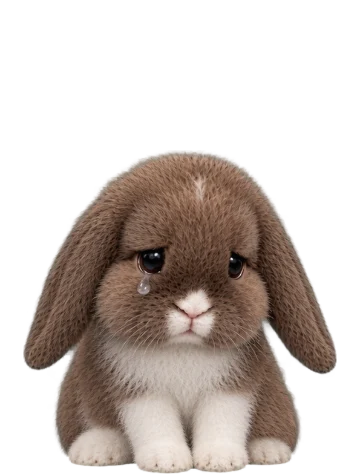
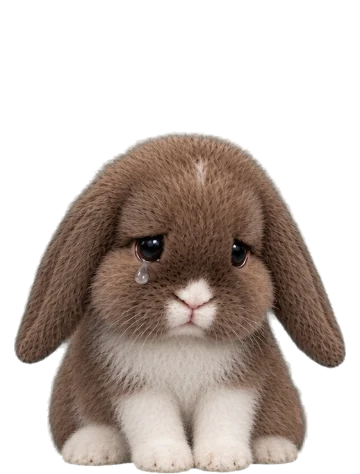
Hint Bunny: full matching pose set (12 poses, new idle), bored then asleep when left alone

Changed region(s): [[0.0306, 0.2658, 0.9778, 1.0], [0.4889, 0.8861, 0.6111, 1.0], [0.4278, 0.9747, 0.4583, 1.0]]

diff --git a/src/ui/bunny.ts b/src/ui/bunny.ts
@@ -19,7 +19,19 @@ export type BunnyEvent =
   | 'scare';
 
 /** Photo poses (assets/bunny/<pose>.webp, all cropped to the same box so swaps don't jump). */
-type Pose = 'idle' | 'happy' | 'sad' | 'thinking' | 'angry' | 'alert' | 'aside' | 'shock' | 'love';
+type Pose =
+  | 'idle'
+  | 'happy'
+  | 'sad'
+  | 'thinking'
+  | 'angry'
+  | 'bored'
+  | 'idea'
+  | 'proud'
+  | 'aside'
+  | 'shock'
+  | 'love'
+  | 'sleep';
 
 const POSE_URLS = import.meta.glob<string>('../assets/bunny/*.webp', { eager: true, query: '?url', import: 'default' });
 const poseUrl = (p: Pose) => POSE_URLS[`../assets/bunny/${p}.webp`];
@@ -31,10 +43,13 @@ const FALLBACK: Record<Pose, Pose> = {
   sad: 'idle',
   thinking: 'idle',
   angry: 'sad',
-  alert: 'thinking',
+  bored: 'idle',
+  idea: 'thinking',
+  proud: 'happy',
   aside: 'idle',
   shock: 'angry',
   love: 'happy',
+  sleep: 'bored',
 };
 const resolvePose = (p: Pose): Pose => (poseUrl(p) ? p : p === 'idle' ? p : resolvePose(FALLBACK[p]));
 
@@ -90,11 +105,11 @@ const GESTURE: Record<BunnyEvent, string> = {
 
 /** Which photo it switches to for each event (back to idle when the gesture ends). */
 const POSE: Record<BunnyEvent, Pose> = {
-  start: 'happy',
+  start: 'love',
   move: 'aside',
-  reveal: 'alert',
+  reveal: 'aside',
   suit: 'happy',
-  complete: 'happy',
+  complete: 'proud',
   deal: 'aside',
   undo: 'sad',
   invalid: 'angry',
@@ -104,7 +119,9 @@ const POSE: Record<BunnyEvent, Pose> = {
 };
 
 const IMPORTANT = new Set<string>(['complete', 'stuck', 'win', 'scare', 'tap', 'hint', 'hintTarget', 'hintDeal', 'invalid']);
-const IDLE_MS = 40_000;
+/** Left alone, it gets bored, and a while later falls asleep (until anything happens). */
+const BORED_MS = 40_000;
+const SLEEP_MS = 120_000;
 const QUIET_MS = 4_000;
 
 export interface HintTarget {
@@ -120,6 +137,7 @@ export class Bunny {
   private lastPop = 0;
   private timers = new Set<number>();
   private idleTimer = 0;
+  private resting = false;
   private moodTimer = 0;
   private popTimer = 0;
   private busyUntil = 0;
@@ -202,7 +220,7 @@ export class Bunny {
     this.busyUntil = performance.now() + 3200;
     this.walkTo(target.from);
     this.later(380, () => {
-      this.gesture('perk', 1000, 'thinking');
+      this.gesture('perk', 1000, 'idea');
       this.pop(kind === 'deal' ? 'hintDeal' : 'hint');
     });
     if (kind === 'move' && target.to !== undefined) {
@@ -269,7 +287,7 @@ export class Bunny {
     this.busyUntil = 0;
   }
 
-  /** Turn toward where the action is (only shows in the side-glance pose, which looks left as shot). */
+  /** Turn toward where the action is (only shows in the side-glance pose, which looks right as shot). */
   private face(x: number) {
     const rect = this.el.getBoundingClientRect();
     const host = this.host.getBoundingClientRect();
@@ -278,12 +296,23 @@ export class Bunny {
 
   private resetIdle() {
     clearTimeout(this.idleTimer);
-    // Never offers hints on its own: while the player thinks it just fidgets quietly.
+    if (this.resting) {
+      this.resting = false;
+      this.setPose('idle');
+    }
+    // Never offers hints on its own: while the player thinks it just gets bored, then dozes off.
     this.idleTimer = window.setTimeout(() => {
       if (!this.enabled || document.hidden) return;
-      this.gesture('twitch', 900);
-      this.resetIdle();
-    }, IDLE_MS);
+      this.rest('bored');
+      this.idleTimer = window.setTimeout(() => this.enabled && this.rest('sleep'), SLEEP_MS - BORED_MS);
+    }, BORED_MS);
+  }
+
+  /** Hold a pose until something happens. */
+  private rest(pose: Pose) {
+    clearTimeout(this.moodTimer);
+    this.resting = true;
+    this.setPose(pose);
   }
 
   private later(ms: number, fn: () => void) {

diff --git a/src/style.css b/src/style.css
@@ -1317,8 +1317,8 @@ html.standalone #app {
 .bunny-pose.shown {
   opacity: 1;
 }
-/* Front-facing poses look the same either way; the side glance is shot looking left. */
-.bunny.facing-right .pose-aside {
+/* Front-facing poses look the same either way; the side glance is shot looking right. */
+.bunny:not(.facing-right) .pose-aside {
   scale: -1 1;
 }
 
